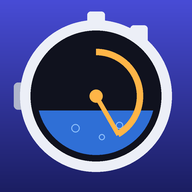
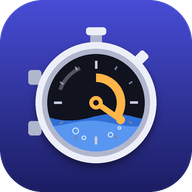
Add files via upload

diff --git a/index.html b/index.html
@@ -6,12 +6,12 @@
 <title>Différé Malin</title>
 <meta name="description" content="Le différé à régler sur vos appareils pour les lancer pendant les heures les moins chères.">
 <link rel="manifest" href="manifest.webmanifest">
-<meta name="theme-color" content="#121410">
+<meta name="theme-color" content="#1d2066">
 <link rel="icon" href="icon-192.png" type="image/png">
 <link rel="apple-touch-icon" href="icon-192.png">
 <meta name="mobile-web-app-capable" content="yes">
 <meta name="apple-mobile-web-app-capable" content="yes">
-<meta name="apple-mobile-web-app-title" content="Différé">
+<meta name="apple-mobile-web-app-title" content="Diff. Malin">
 <style>
 :root{color-scheme:light;padding-top:env(safe-area-inset-top,0px);padding-bottom:env(safe-area-inset-bottom,0px)}
 *,*::before,*::after{box-sizing:border-box}

diff --git a/sw.js b/sw.js
@@ -1,5 +1,5 @@
-const CACHE='differe-malin-v5';
-const SHELL=['./','./index.html','./manifest.webmanifest','./icon-192.png','./icon-512.png','./icon-maskable-512.png'];
+const CACHE='differe-malin-gratuite-v7';
+const SHELL=['./','./index.html','./manifest.webmanifest','./icon-192.png','./icon-512.png','./icon-maskable-512.png','./icon-monochrome-512.png'];
 self.addEventListener('install',e=>{e.waitUntil(caches.open(CACHE).then(c=>c.addAll(SHELL)).then(()=>self.skipWaiting()))});
 self.addEventListener('activate',e=>{e.waitUntil(caches.keys().then(ks=>Promise.all(ks.filter(k=>k!==CACHE).map(k=>caches.delete(k)))).then(()=>self.clients.claim()))});
 self.addEventListener('fetch',e=>{
